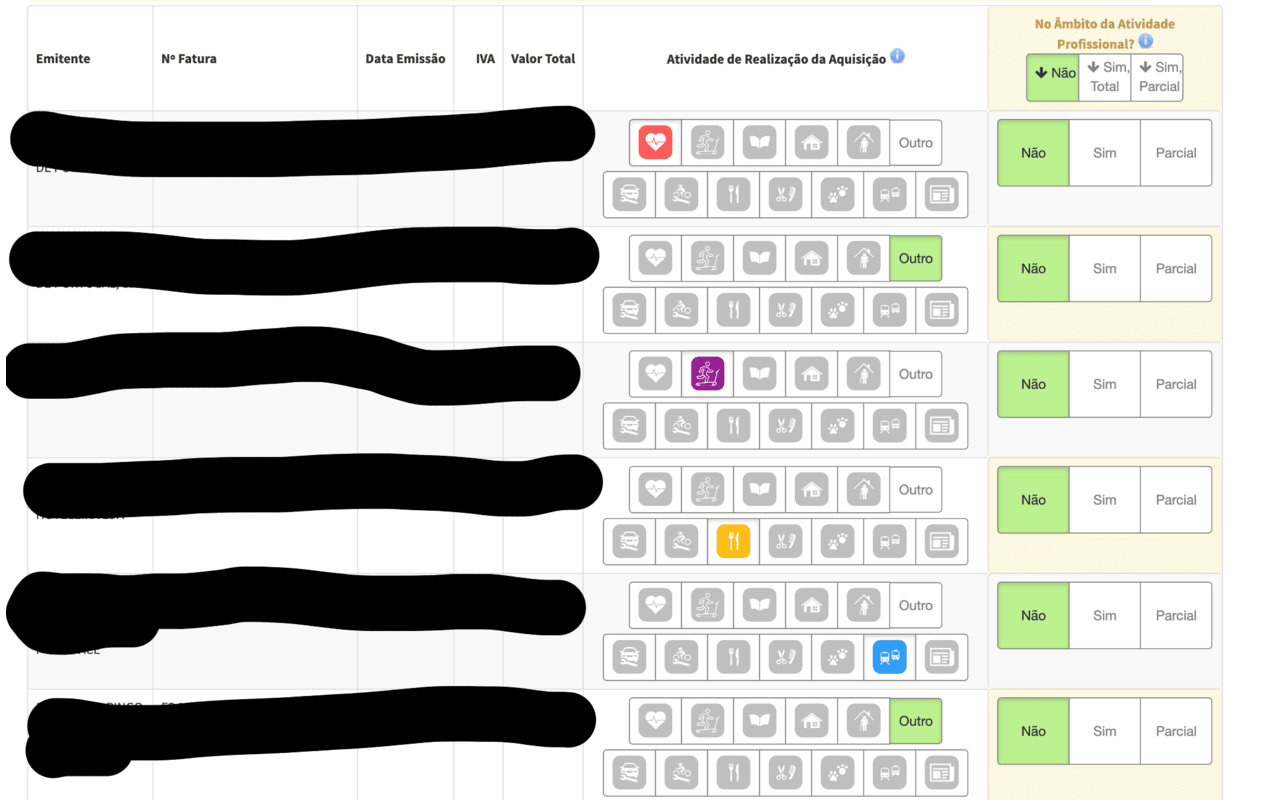
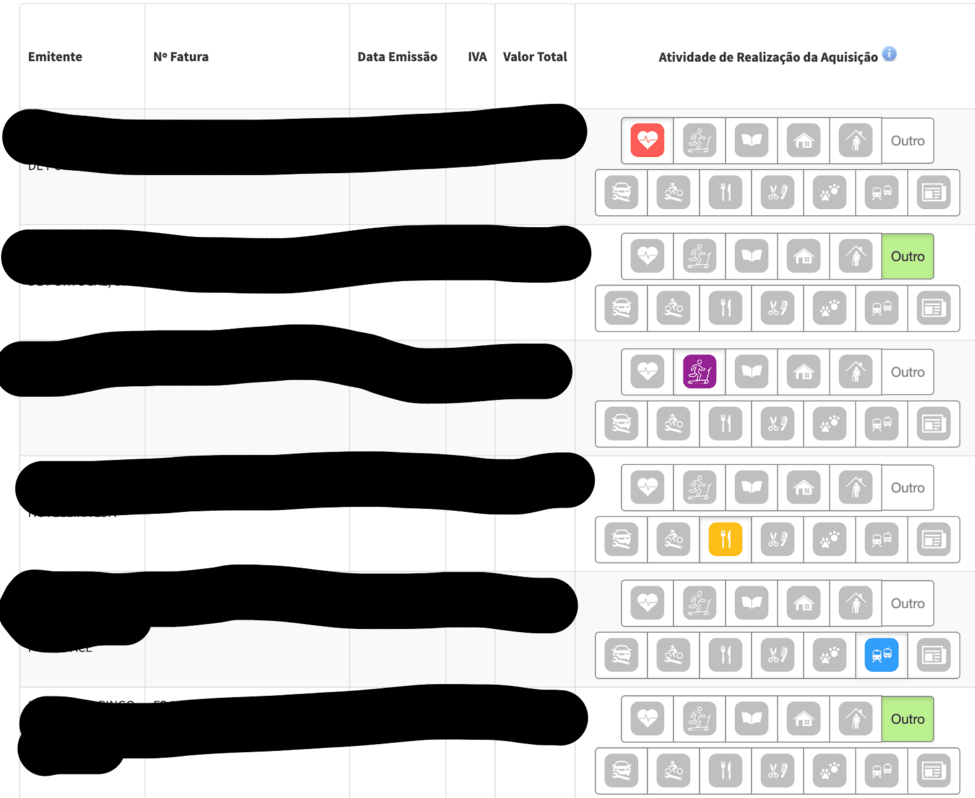
Remove Professional Expense selector section as it no longer exists

diff --git a/src/contentScript/index.ts b/src/contentScript/index.ts
@@ -1,4 +1,4 @@
-import { CATEGORY_BUTTONS_MAPPING, COLUMNS_MAPPING, PROFESSIONAL_BUTTONS_MAPPING } from "./constants";
+import { CATEGORY_BUTTONS_MAPPING, COLUMNS_MAPPING } from "./constants";
 import { mapCompanyToButton } from "./helpers";
 
 const table: Element = document.querySelector("#listaPendencias > tbody")
@@ -15,12 +15,5 @@ if (table?.childElementCount > 0) {
             // @ts-ignore
             categoryButtons.children[buttonMapped]!.click()
         }
-
-        // Set expense as not professional
-        const professionalButtons = item.children[COLUMNS_MAPPING.PROFESSIONAL_BUTTONS_POSITION].children[0]
-        const naoButton = professionalButtons.children[PROFESSIONAL_BUTTONS_MAPPING.NAO]
-        
-        // @ts-ignore
-        naoButton.click()
     }
 }

diff --git a/src/contentScript/constants.ts b/src/contentScript/constants.ts
@@ -41,11 +41,4 @@ export const EXACT_COMPANIES_MAPPING = [
 
 export enum COLUMNS_MAPPING {
     CATEGORY_BUTTONS_POSITION = 5,
-    PROFESSIONAL_BUTTONS_POSITION
-}
-
-export enum PROFESSIONAL_BUTTONS_MAPPING {
-    NAO,
-    SIM,
-    PARCIAL
 }
